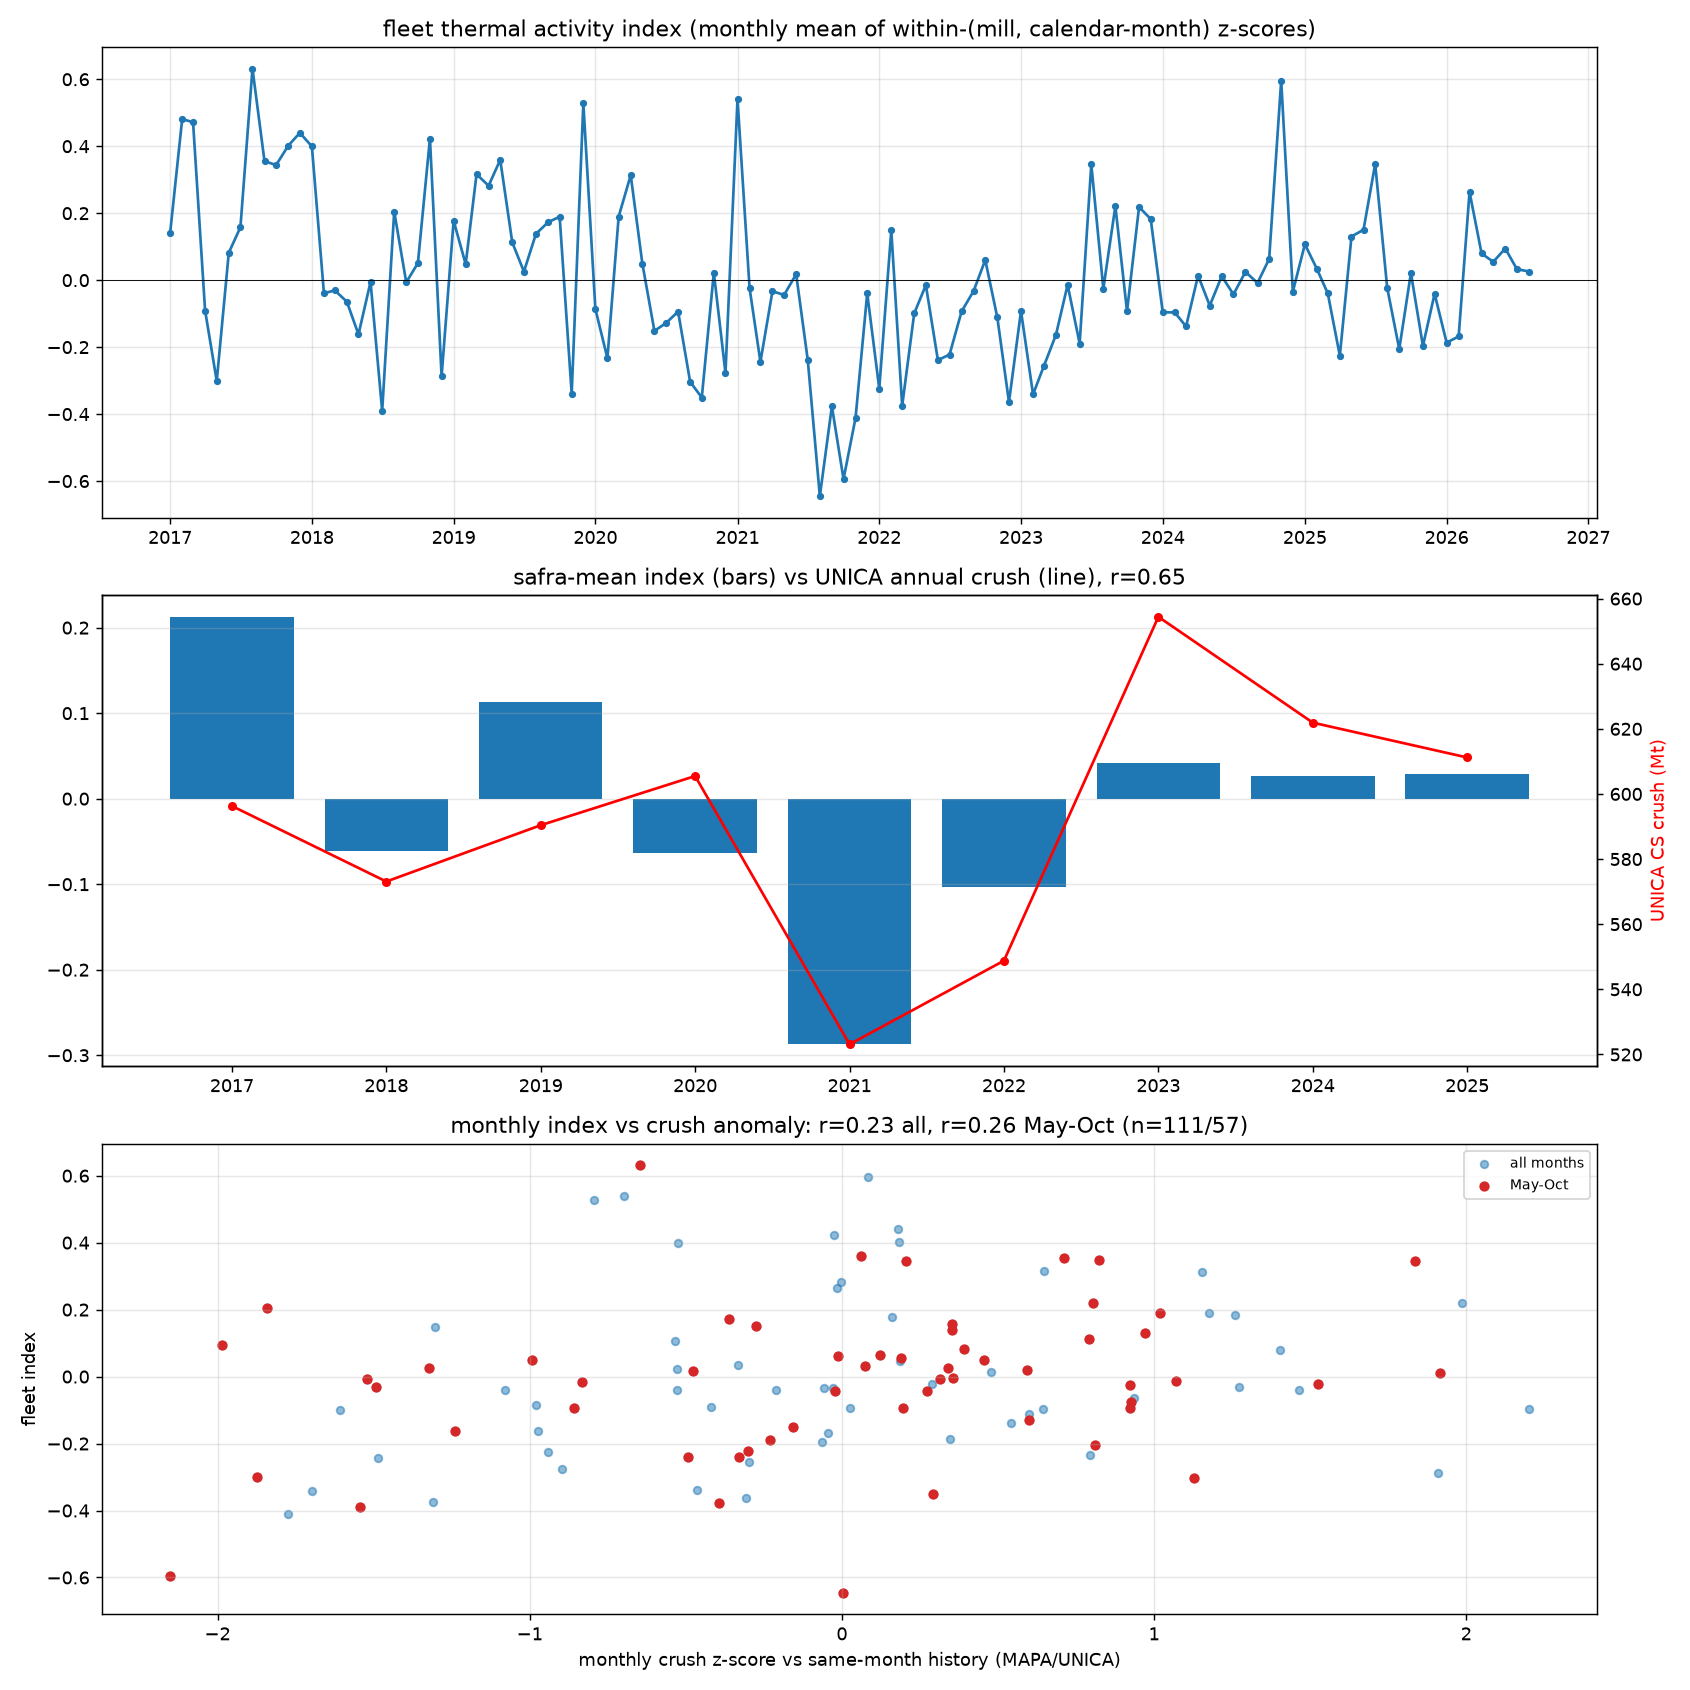
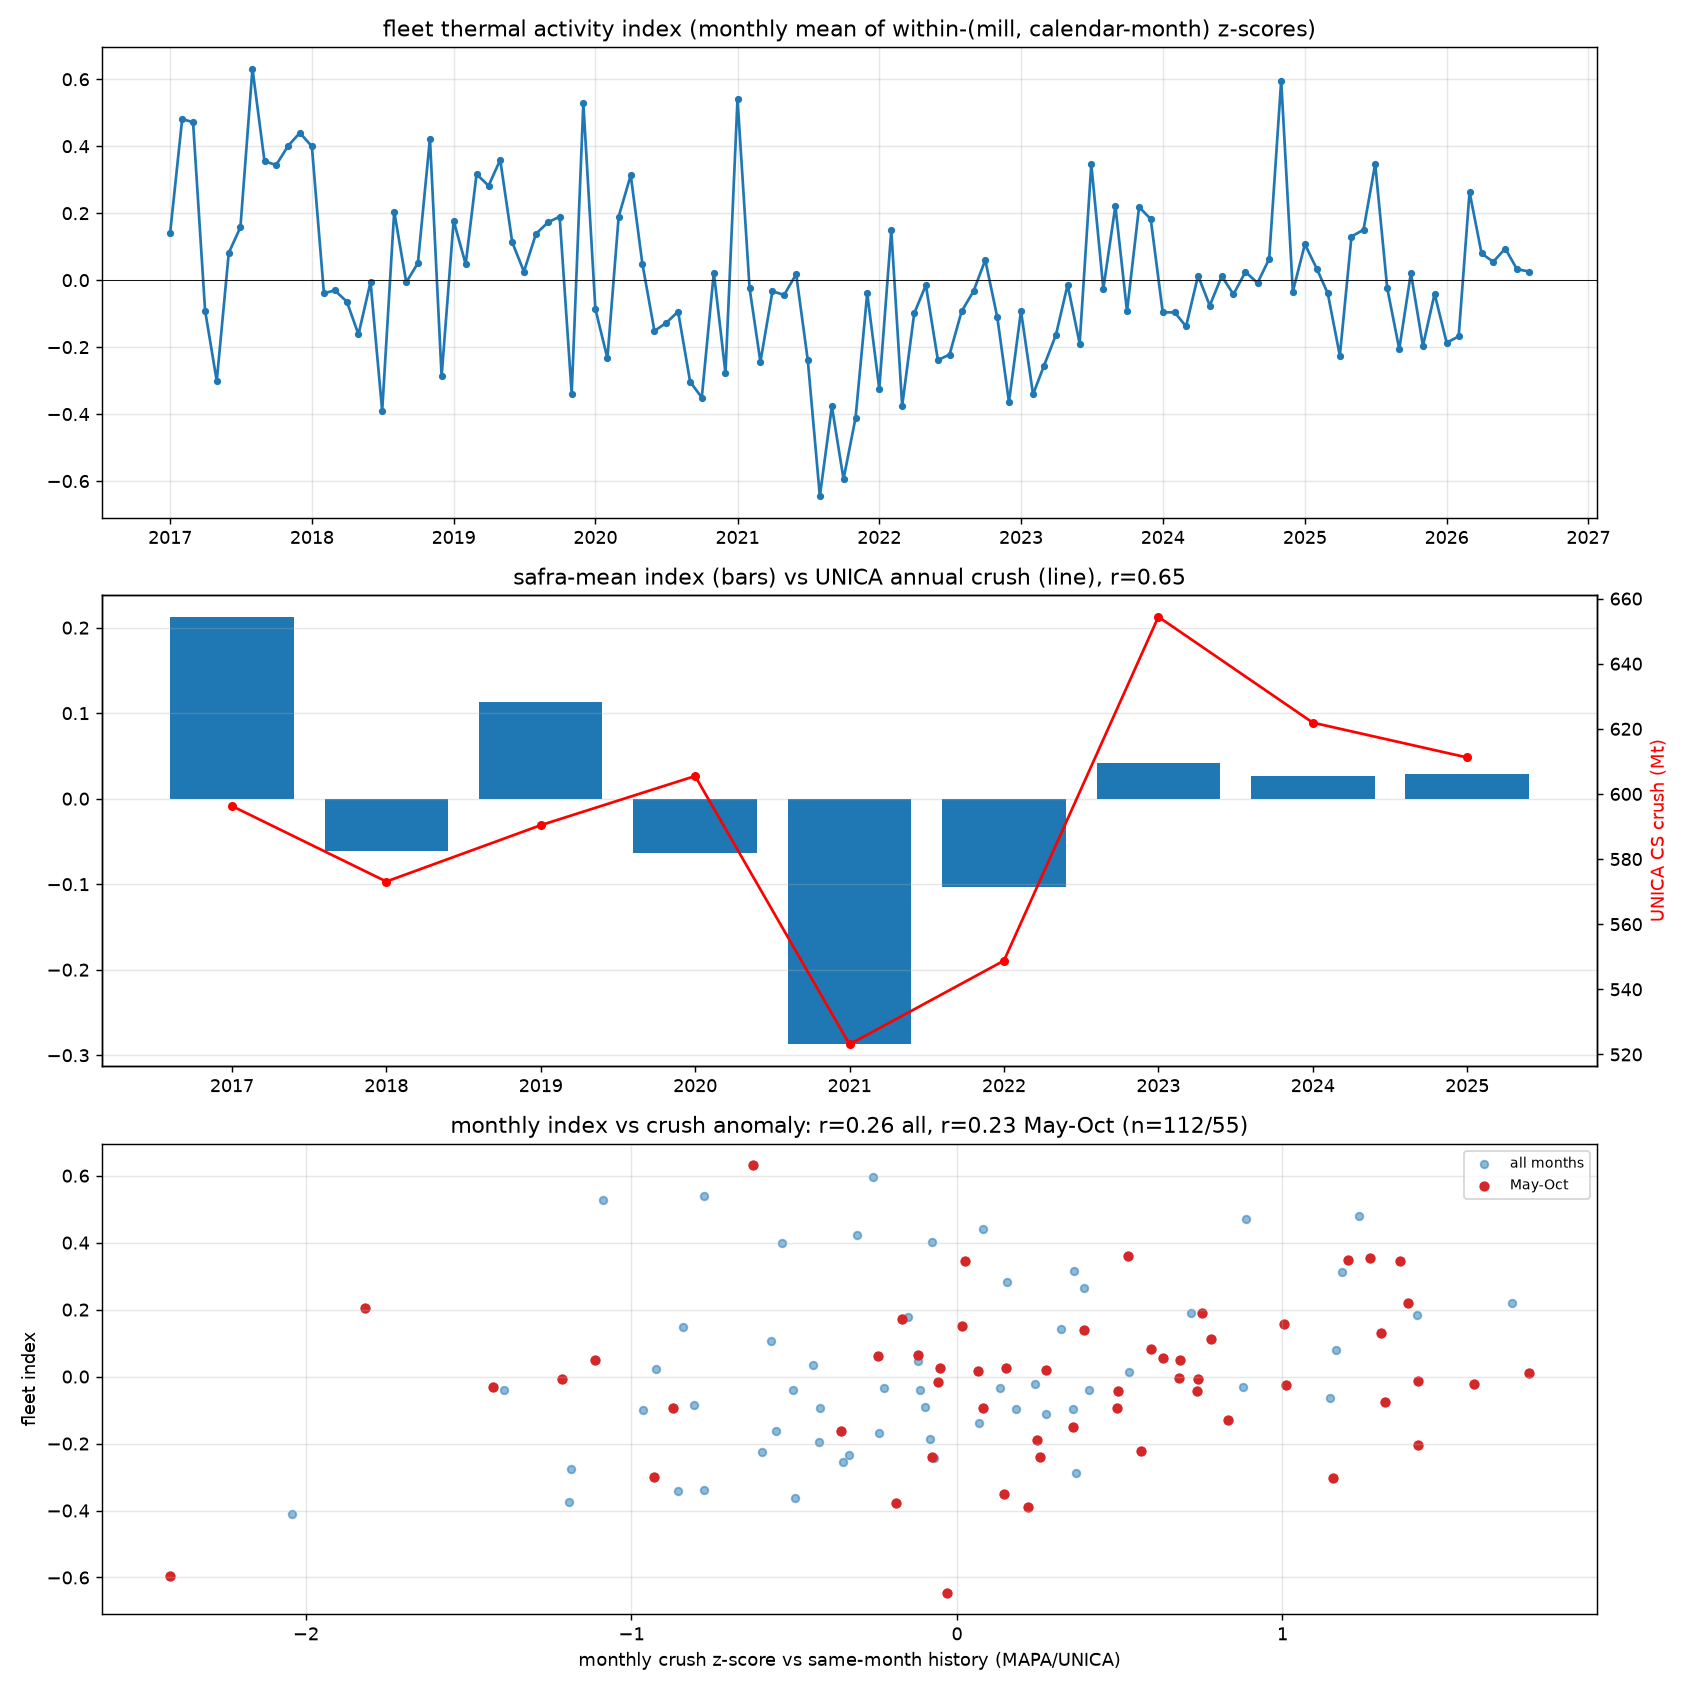
Pilot regression on UNICA PowerBI monthly series; final outputs
Claude-Session: https://claude.ai/code/session_01Ab1Yzbt87uPbQ7ZCvgXKVR

Changed region(s): [[0.4308, 0.7692, 0.7385, 0.8615], [0.6154, 0.7385, 0.6462, 0.8], [0.4, 0.8615, 0.4308, 0.8923]]

diff --git a/thermal/run_fleet.py b/thermal/run_fleet.py
@@ -182,8 +182,8 @@ def main():
             f"- Monthly correlation of fleet index with same-month crush z-score: "
             f"**{mcorr:.2f}** (all months, n={len(unica_monthly)}), "
             f"**{mcorr_core:.2f}** (May-Oct full-crush months)",
-            "- Full join in outputs/unica_monthly_join.csv; monthly crush series "
-            "in data/mapa_moagem_cs_monthly.csv (Apr 2017 - present).",
+            f"- Full join in outputs/unica_monthly_join.csv; monthly crush series "
+            f"from {mapa_path} (UNICA PowerBI 2010-present, MAPA vintages as fallback).",
         ]
     (outputs / "fleet_summary.md").write_text("\n".join(lines) + "\n")
     print("\n".join(lines))

diff --git a/thermal/outputs/fleet/fleet_summary.md b/thermal/outputs/fleet/fleet_summary.md
@@ -19,5 +19,5 @@
 Correlation (safra mean z vs UNICA Mt): **0.65** over 9 safras
 
 ## Monthly regression vs MAPA/UNICA crush
-- Monthly correlation of fleet index with same-month crush z-score: **0.23** (all months, n=111), **0.26** (May-Oct full-crush months)
-- Full join in outputs/unica_monthly_join.csv; monthly crush series in data/mapa_moagem_cs_monthly.csv (Apr 2017 - present).
+- Monthly correlation of fleet index with same-month crush z-score: **0.26** (all months, n=112), **0.23** (May-Oct full-crush months)
+- Full join in outputs/unica_monthly_join.csv; monthly crush series from data/unica_monthly_cs.csv (UNICA PowerBI, 2010-present).
